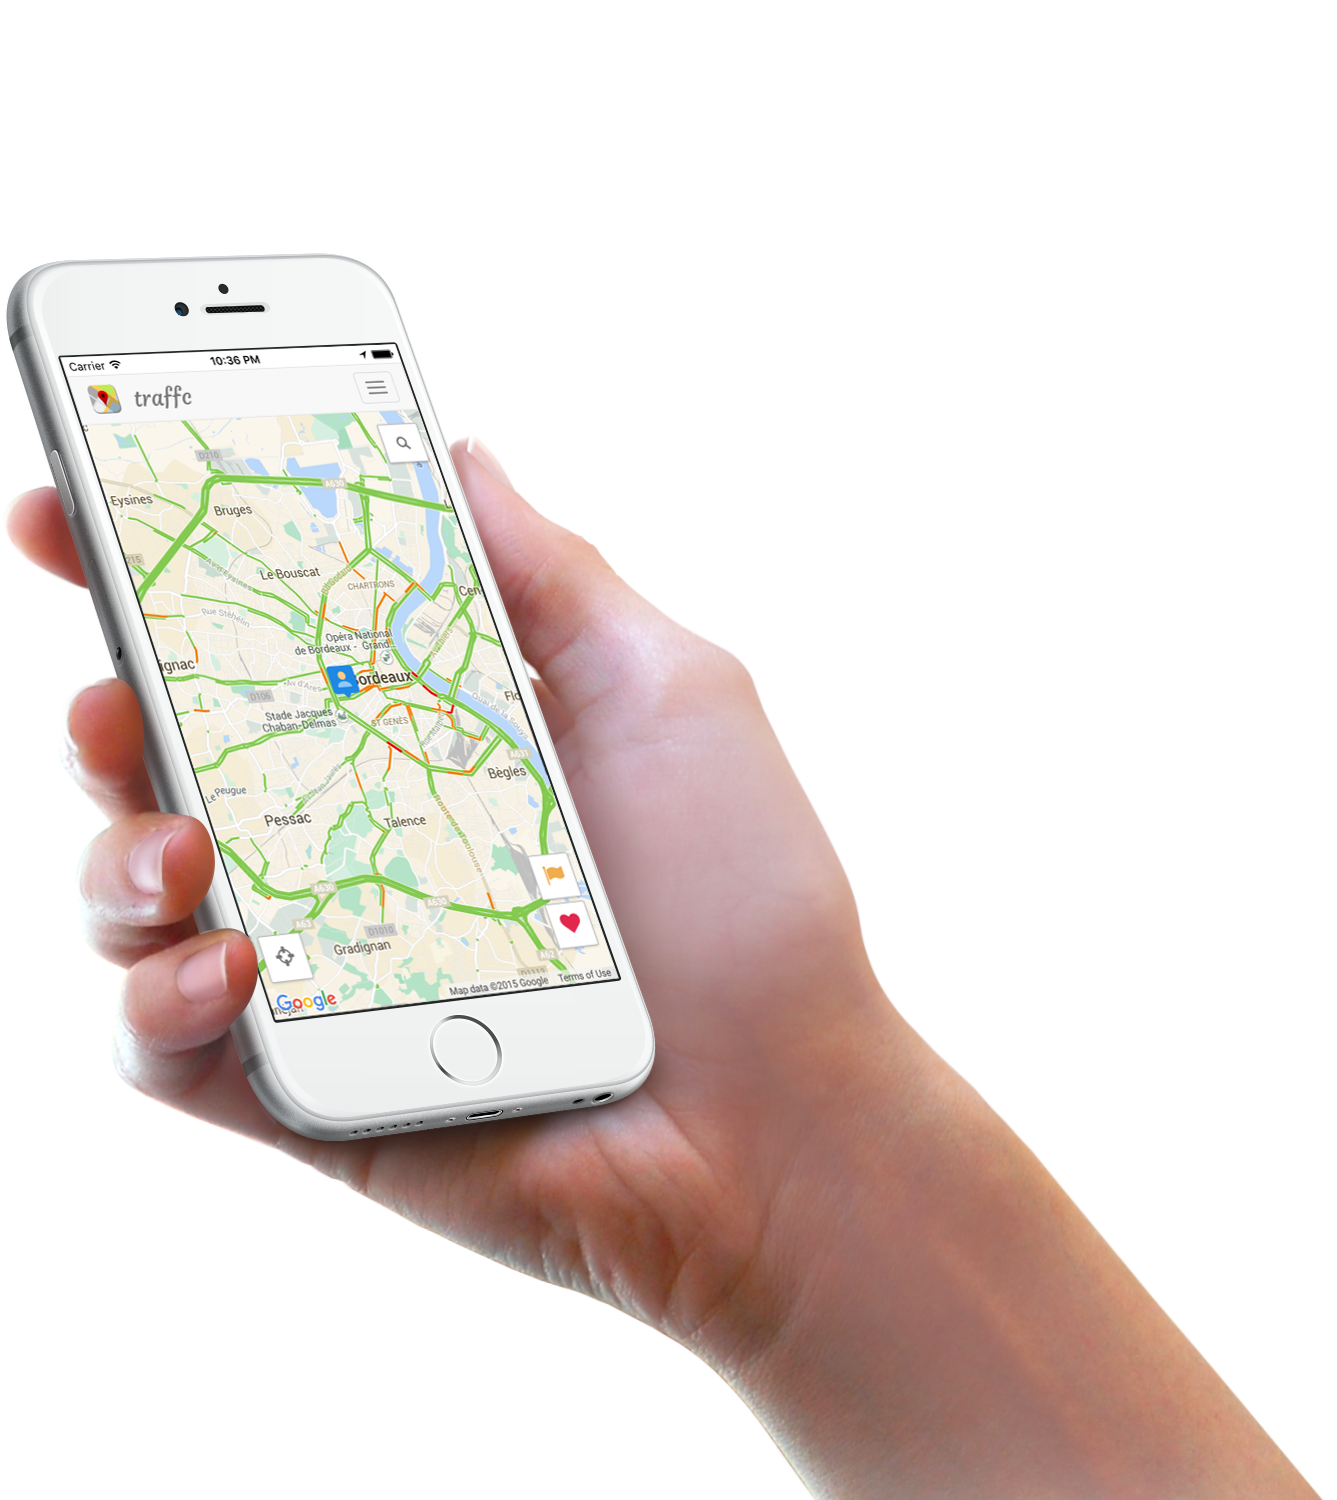
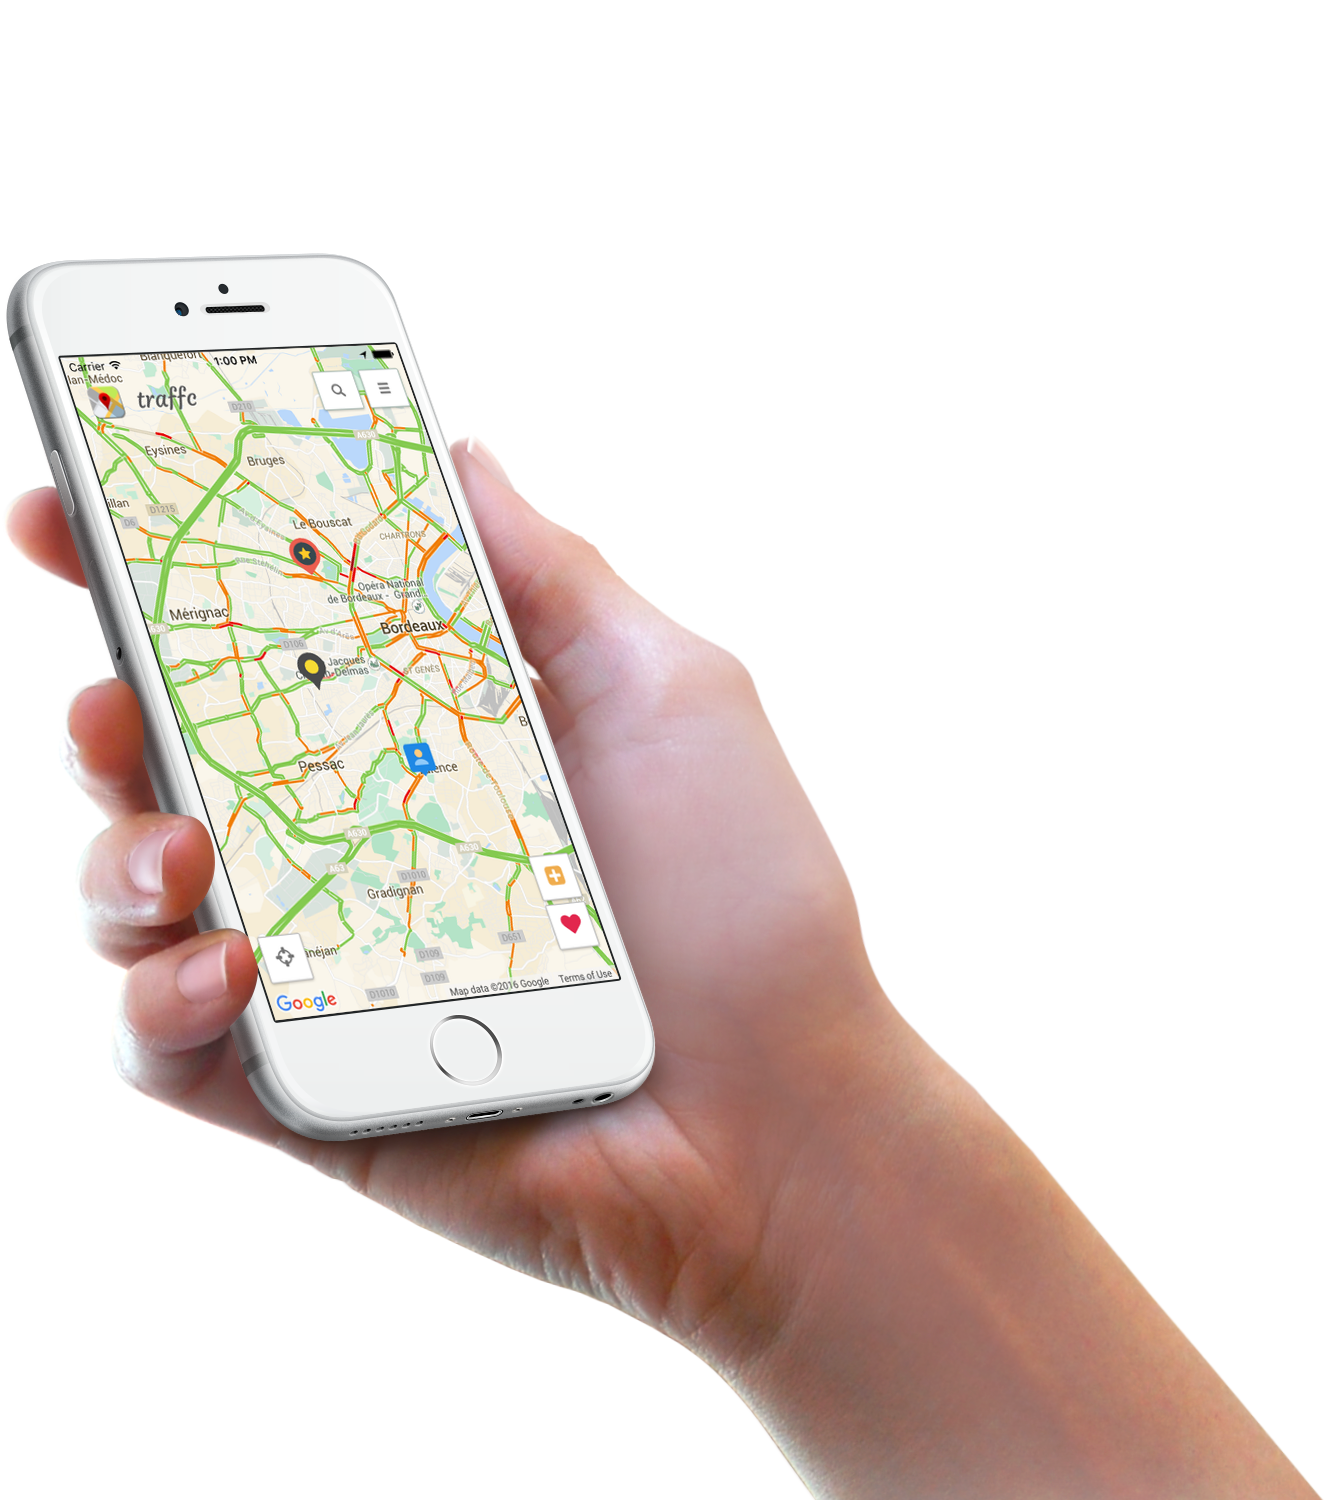
[CONTENT] updated mockups and text

Changed region(s): [[0.0307, 0.2147, 0.46, 0.6747]]

diff --git a/index.html b/index.html
@@ -128,7 +128,7 @@ it's just light, simple and instantaneously available."/>
                 <img src="images/service-icon-3.png" alt="icon">
                 <h4>WEB PAGE & APP</h4>
 
-                <p>No special installation nor heavy backend. Works fine on your desktop as well as on your
+                <p>Works fine on your desktop as well as on your
                     smartphone.</p>
             </div>
 
@@ -171,16 +171,16 @@ it's just light, simple and instantaneously available."/>
         </div>
 
         <div class="col-md-4 col-sm-4 appmockup wow fadeInUp">
-            <img class="phone-mockup" src="images/iphonemockup.png" alt="phone mockup">
+            <img class="phone-mockup iphone-alone" src="images/iphonemockup.jpg" alt="phone mockup">
             <!--<img class="phone-img" src="images/appimage.png" alt="phone image">-->
         </div>
 
         <div class="col-md-4 col-sm-4 features-right">
             <div class="features-list-4 wow fadeInRight">
                 <img src="images/features-icon-4.png" alt="icon">
-                <h4>No Install Needed</h4>
+                <h4>On Desktop too</h4>
 
-                <p>Bookmark it on your desktop browser. Pin it to your home on your mobile. No apps or stores.</p>
+                <p>Bookmark it on your desktop browser from <a href="http://traffc.info">traffc.info</a>.</p>
             </div>
             <div class="features-list-5 wow fadeInRight">
                 <img src="images/features-icon-5.png" alt="icon">
@@ -362,7 +362,7 @@ it's just light, simple and instantaneously available."/>
                 </ul>
             </div>
             <div class="col-md-4 col-sm-4 wow fadeInRight">
-                <p>All Rights Reserved &copy; - 2015</p>
+                <p>All Rights Reserved &copy; - 2016</p>
             </div>
         </div>
         <!-- Row End -->

diff --git a/css/traffc.css b/css/traffc.css
@@ -25,6 +25,10 @@ a.store img {
     margin-top: 10px;
 }
 
+.iphone-alone {
+    width:280px;
+}
+
 .footer-info .brand {
     padding: 3px 15px;
     height: 32px !important;
